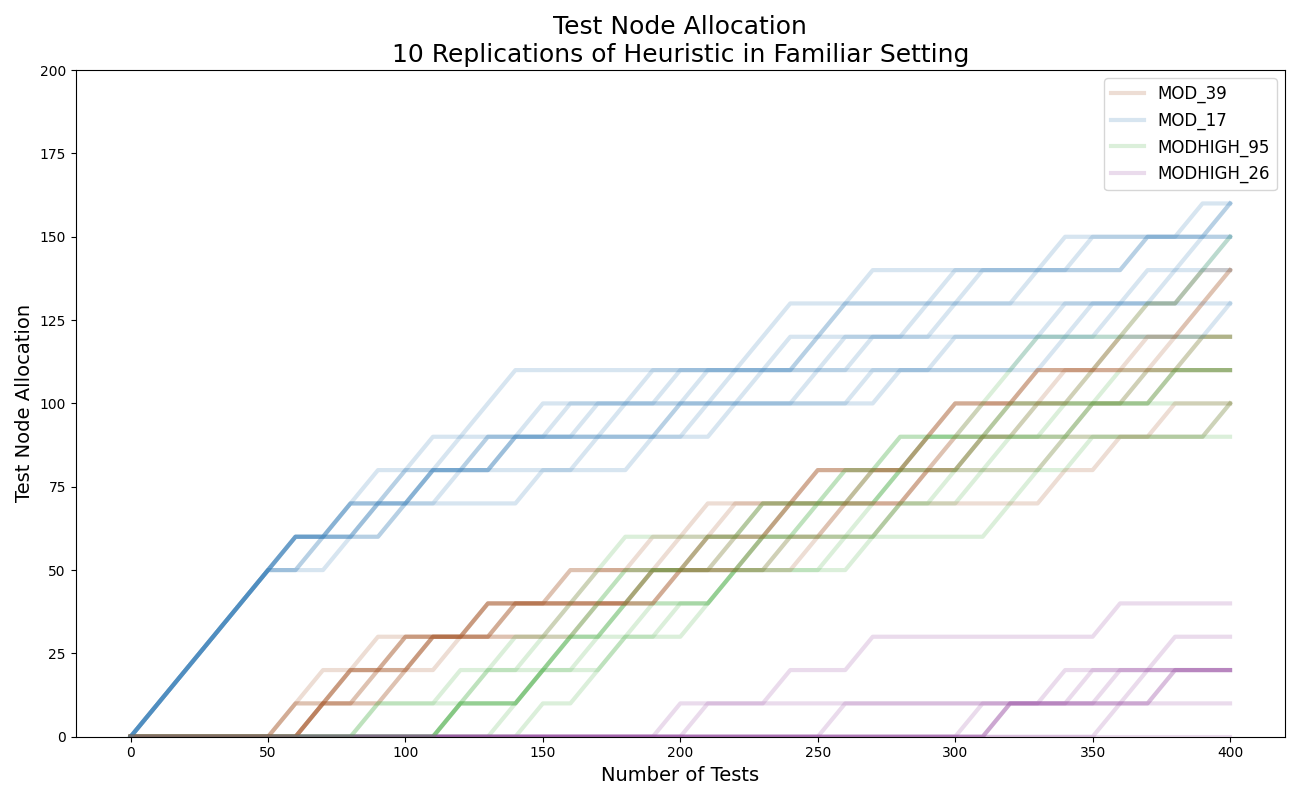
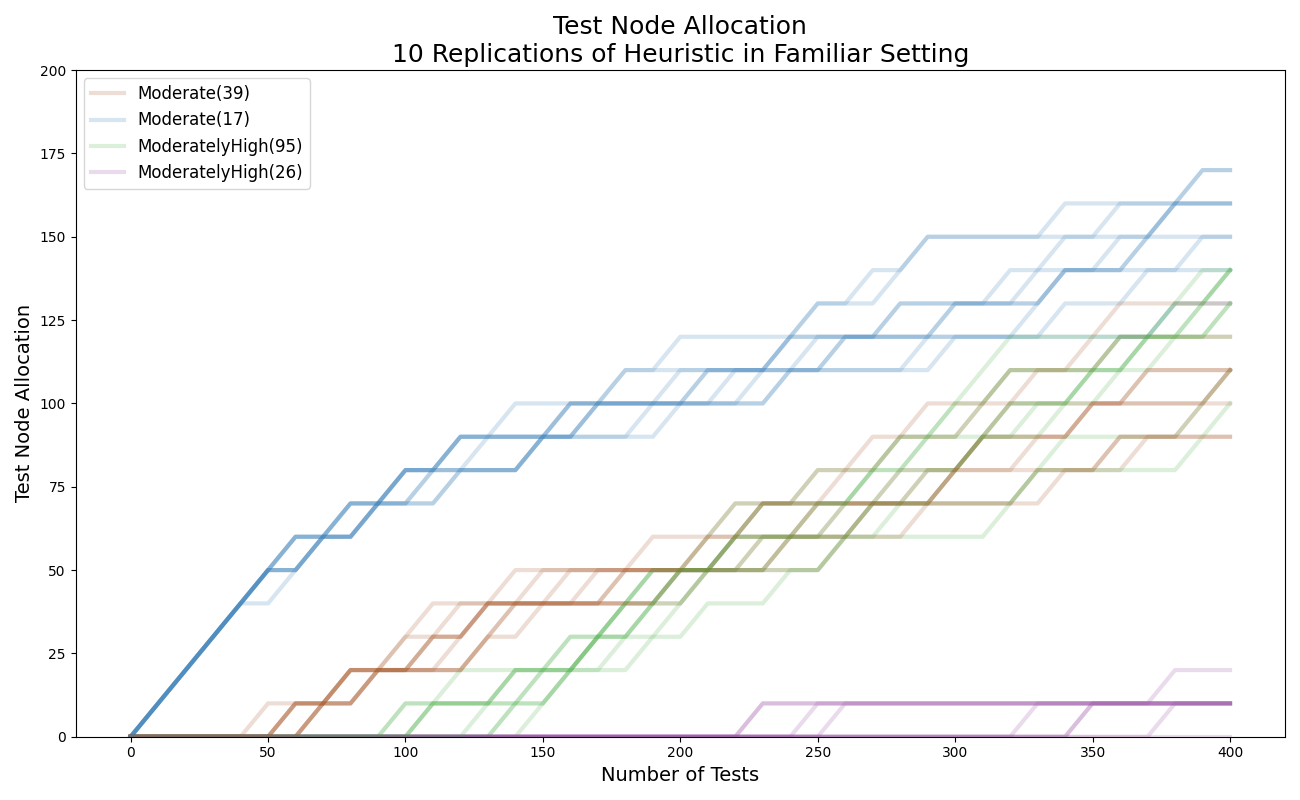
alloc sens study

diff --git a/CASESTUDY_alloc_sensitivity.py b/CASESTUDY_alloc_sensitivity.py
@@ -58,7 +58,6 @@ testarr = np.arange(testint, testmax + testint, testint)
 # Set MCMC draws to use in fast algorithm
 numtruthdraws, numdatadraws = 75000, 2000
 
-
 numReps = 10
 for rep in range(numReps):
     print('Rep: '+str(rep))
@@ -79,16 +78,15 @@ for rep in range(numReps):
     np.save(os.path.join('casestudyoutputs', 'allocation_sensitivity', 'allocsens_util_hi_'+str(rep)), util_hi)
     np.save(os.path.join('casestudyoutputs', 'allocation_sensitivity', 'allocsens_util_lo_'+str(rep)), util_lo)
 
-
 ##################
 # Compare utilities and allocations
 ##################
 alloc_list, util_avg_list, util_hi_list, util_lo_list = [], [], [], []
 for i in range(9):
-    alloc_list.append(np.load(os.path.join('casestudyoutputs', '13JUN', 'allocsens_alloc_'+str(i)+'.npy')))
-    util_avg_list.append(np.load(os.path.join('casestudyoutputs', '13JUN', 'allocsens_util_avg_'+str(i)+'.npy')))
-    util_hi_list.append(np.load(os.path.join('casestudyoutputs', '13JUN', 'allocsens_util_hi_' + str(i) + '.npy')))
-    util_lo_list.append(np.load(os.path.join('casestudyoutputs', '13JUN', 'allocsens_util_lo_' + str(i) + '.npy')))
+    alloc_list.append(np.load(os.path.join('casestudyoutputs', 'allocation_sensitivity', 'allocsens_alloc_'+str(i)+'.npy')))
+    util_avg_list.append(np.load(os.path.join('casestudyoutputs', 'allocation_sensitivity', 'allocsens_util_avg_'+str(i)+'.npy')))
+    util_hi_list.append(np.load(os.path.join('casestudyoutputs', 'allocation_sensitivity', 'allocsens_util_hi_' + str(i) + '.npy')))
+    util_lo_list.append(np.load(os.path.join('casestudyoutputs', 'allocation_sensitivity', 'allocsens_util_lo_' + str(i) + '.npy')))
 
 util_avg_list = np.array(util_avg_list)
 util_hi_list = np.array(util_hi_list)
@@ -115,7 +113,7 @@ for desind in range(util_avg_list.shape[0]):
 plt.legend()
 plt.ylim([0., yMax])
 plt.xlabel('Number of Tests')
-plt.ylabel('Utility Gain')
+plt.ylabel('Utility')
 plt.title('Utility vs. Sampling Budget\n10 Replications of Heuristic in Familiar Setting')
 plt.show()
 plt.close()
@@ -129,7 +127,7 @@ colors = np.array([colorsset(i) for i in colorinds])
 x1 = range(0, 401, 10)
 
 _ = plt.figure(figsize=(13,8))
-labels = ['MOD_39', 'MOD_17', 'MODHIGH_95', 'MODHIGH_26']
+labels = ['Moderate(39)', 'Moderate(17)', 'ModeratelyHigh(95)', 'ModeratelyHigh(26)']
 for allocarr_ind in range(alloc_list.shape[0]):
     allocarr = alloc_list[allocarr_ind]
     if allocarr_ind == 0:
@@ -151,3 +149,70 @@ plt.title('Test Node Allocation\n10 Replications of Heuristic in Familiar Settin
 plt.tight_layout()
 plt.show()
 plt.close()
+
+#####################################
+### PLOT OF BIAS FROM LOW TRUTH DRAWS
+#####################################
+numdatadraws = 2000
+# Reduce the number of reps
+numReps = 5
+# 15k
+for rep in range(numReps):
+    print('Rep: '+str(rep)+' for 15k')
+    # Get new MCMC draws
+    np.random.seed(2000+rep)
+    numdraws, numtruthdraws = 15000, 15000
+    csdict_fam['numPostSamples'] = numdraws
+    csdict_fam = methods.GeneratePostSamples(csdict_fam)
+    # Get random subsets for truth and data draws
+    truthdraws, datadraws = util.distribute_truthdata_draws(csdict_fam['postSamples'], numtruthdraws, numdatadraws)
+    paramdict.update({'truthdraws': truthdraws, 'datadraws': datadraws})
+    # Get base loss
+    paramdict['baseloss'] = sampf.baseloss(paramdict['truthdraws'], paramdict)
+    util.print_param_checks(paramdict) # Check of used parameters
+    alloc, util_avg, util_hi, util_lo = sampf.get_greedy_allocation(csdict_fam, testmax, testint, paramdict,
+                                                                    plotupdate=False)
+    # Store
+    np.save(os.path.join('casestudyoutputs', 'allocation_sensitivity', 'truthbias_15k_util_avg_'+str(rep)), util_avg)
+    np.save(os.path.join('casestudyoutputs', 'allocation_sensitivity', 'truthbias_15k_util_hi_'+str(rep)), util_hi)
+    np.save(os.path.join('casestudyoutputs', 'allocation_sensitivity', 'truthbias_15k_util_lo_'+str(rep)), util_lo)
+# 50k
+for rep in range(numReps):
+    print('Rep: '+str(rep)+' for 50k')
+    # Get new MCMC draws
+    np.random.seed(2000+rep)
+    numdraws, numtruthdraws = 50000, 50000
+    csdict_fam['numPostSamples'] = numdraws
+    csdict_fam = methods.GeneratePostSamples(csdict_fam)
+    # Get random subsets for truth and data draws
+    truthdraws, datadraws = util.distribute_truthdata_draws(csdict_fam['postSamples'], numtruthdraws, numdatadraws)
+    paramdict.update({'truthdraws': truthdraws, 'datadraws': datadraws})
+    # Get base loss
+    paramdict['baseloss'] = sampf.baseloss(paramdict['truthdraws'], paramdict)
+    util.print_param_checks(paramdict) # Check of used parameters
+    alloc, util_avg, util_hi, util_lo = sampf.get_greedy_allocation(csdict_fam, testmax, testint, paramdict,
+                                                                    plotupdate=False)
+    # Store
+    np.save(os.path.join('casestudyoutputs', 'allocation_sensitivity', 'truthbias_50k_util_avg_'+str(rep)), util_avg)
+    np.save(os.path.join('casestudyoutputs', 'allocation_sensitivity', 'truthbias_50k_util_hi_'+str(rep)), util_hi)
+    np.save(os.path.join('casestudyoutputs', 'allocation_sensitivity', 'truthbias_50k_util_lo_'+str(rep)), util_lo)
+# 100k
+for rep in range(numReps):
+    print('Rep: '+str(rep)+' for 100k')
+    # Get new MCMC draws
+    np.random.seed(2000+rep)
+    numdraws, numtruthdraws = 100000, 100000
+    csdict_fam['numPostSamples'] = numdraws
+    csdict_fam = methods.GeneratePostSamples(csdict_fam)
+    # Get random subsets for truth and data draws
+    truthdraws, datadraws = util.distribute_truthdata_draws(csdict_fam['postSamples'], numtruthdraws, numdatadraws)
+    paramdict.update({'truthdraws': truthdraws, 'datadraws': datadraws})
+    # Get base loss
+    paramdict['baseloss'] = sampf.baseloss(paramdict['truthdraws'], paramdict)
+    util.print_param_checks(paramdict) # Check of used parameters
+    alloc, util_avg, util_hi, util_lo = sampf.get_greedy_allocation(csdict_fam, testmax, testint, paramdict,
+                                                                    plotupdate=False)
+    # Store
+    np.save(os.path.join('casestudyoutputs', 'allocation_sensitivity', 'truthbias_100k_util_avg_'+str(rep)), util_avg)
+    np.save(os.path.join('casestudyoutputs', 'allocation_sensitivity', 'truthbias_100k_util_hi_'+str(rep)), util_hi)
+    np.save(os.path.join('casestudyoutputs', 'allocation_sensitivity', 'truthbias_100k_util_lo_'+str(rep)), util_lo)

diff --git a/STUDY_truthdraws_10JUN.py b/STUDY_truthdraws_10JUN.py
@@ -313,7 +313,7 @@ plt.close()
 numdatadraws = 50
 minCI = 0.02
 
-numreps=8
+numreps=5
 truth75arr = np.zeros((numreps, testarr.shape[0]+1))
 truth75arr_lo, truth75arr_hi = np.zeros((numreps, testarr.shape[0]+1)), np.zeros((numreps, testarr.shape[0]+1))
 truth100arr = np.zeros((numreps, testarr.shape[0]+1))
